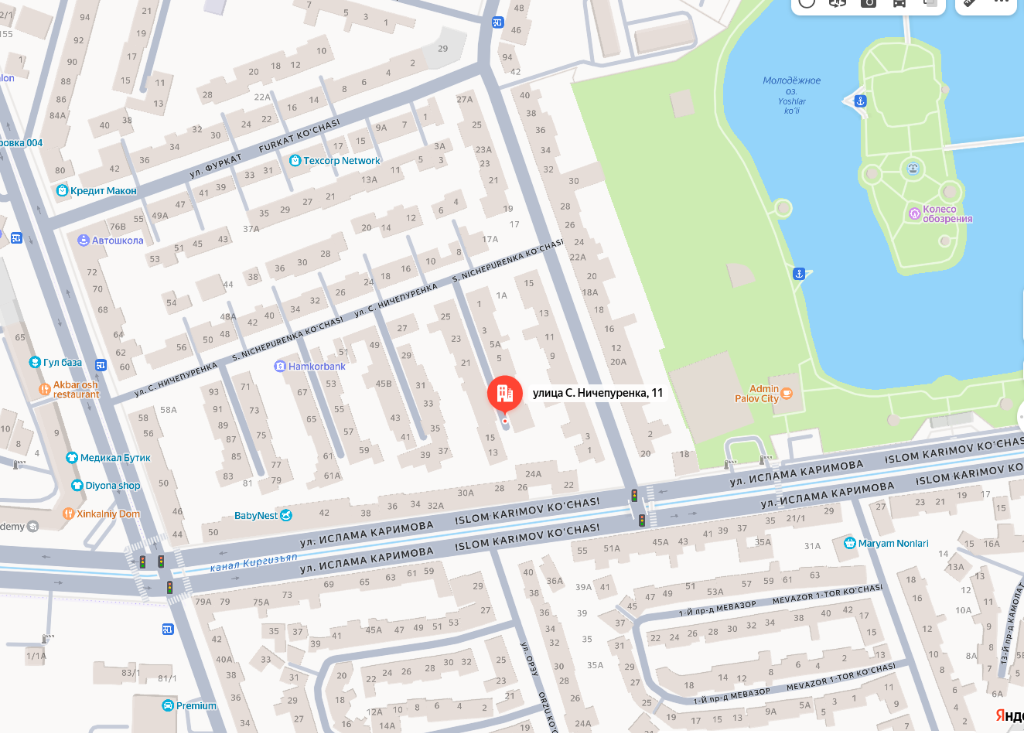
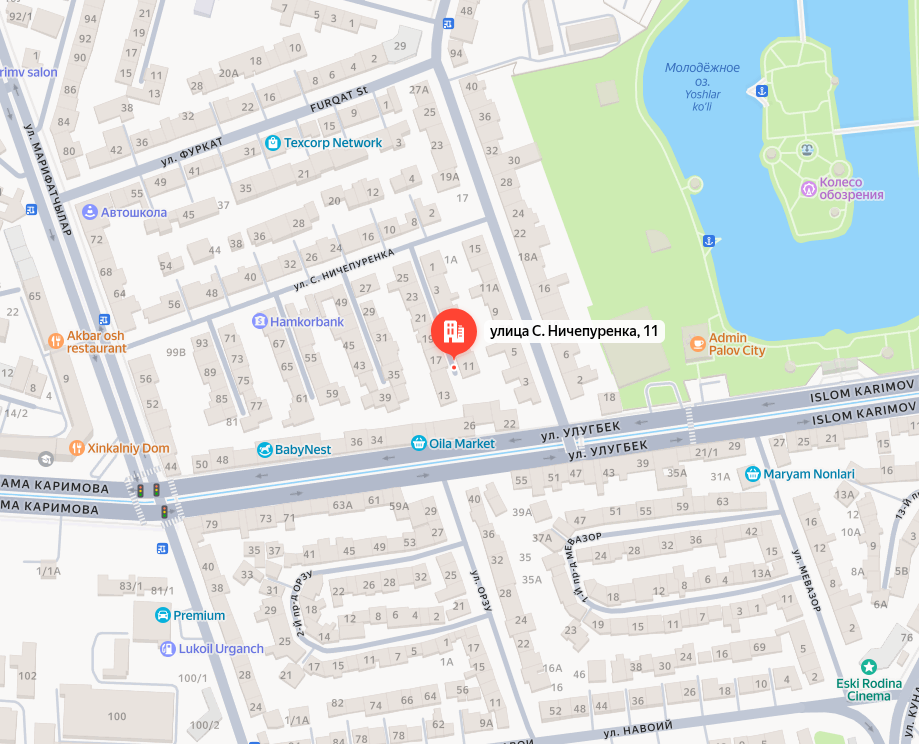
feat: replace map image with clean crop and update submit button to 'Send'

diff --git a/src/components/StepFlow.tsx b/src/components/StepFlow.tsx
@@ -566,7 +566,7 @@ export const StepFlow: React.FC<StepFlowProps> = ({ initialToken = "" }) => {
                 ) : (
                   <>
                     <Send className="w-4 h-4" />
-                    <span>Send with Love 💌</span>
+                    <span>Send</span>
                   </>
                 )}
               </button>
